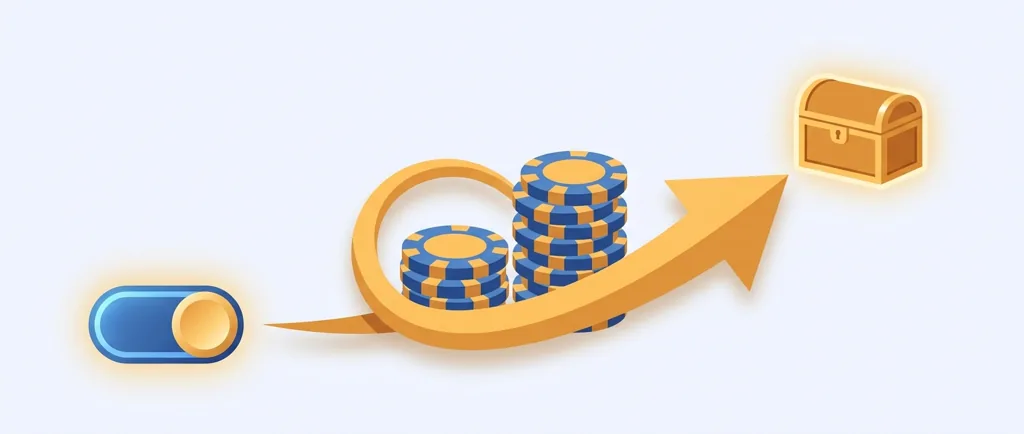
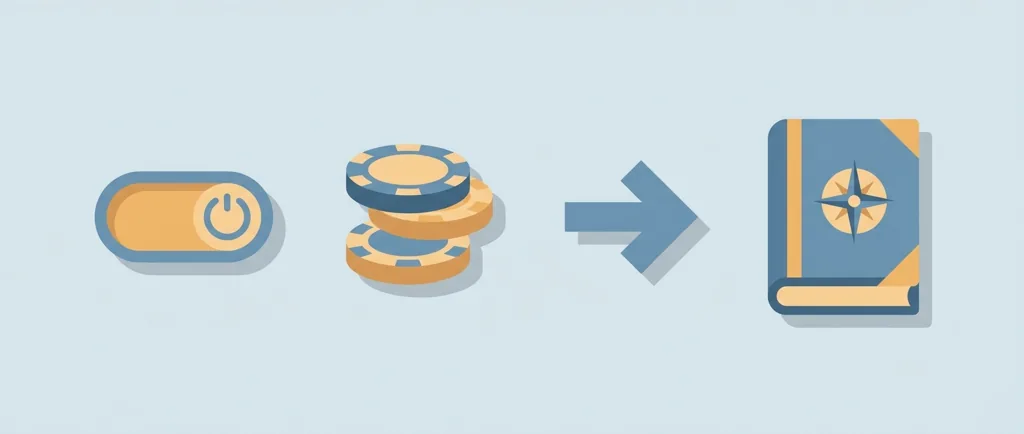
content(stakelogic): image fix pass 2 (regenerate neutral hero, apply review)
Claude-Session: https://claude.ai/code/session_015Q8nXzir9C1JJQpUQrfzFW

diff --git a/VsichkiKazina/articles/2026-09-21-stakelogic/05b-final-draft.md b/VsichkiKazina/articles/2026-09-21-stakelogic/05b-final-draft.md
@@ -5,7 +5,7 @@ Meta description: Stakelogic е нидерландско B2B студио (по-
 
 # Stakelogic: профил на доставчика, механики и топ слотове
 
-![Плоска илюстрация на бутон за включване, две камари казино чипове и извита стрелка нагоре, сочеща към сандък със съкровище, символ на бет-буста Super Stake на доставчика Stakelogic](images/stakelogic-hero.webp)
+![Плоска илюстрация в хоризонтален ред: бутон за включване, камара казино чипове, хоризонтална стрелка надясно и книга с компас, символ на опционалния бет-буст Super Stake на доставчика Stakelogic](images/stakelogic-hero.webp)
 
 Stakelogic прави онлайн ротативки и игри за живо казино, които стигат до теб само през лицензирани оператори. B2B доставчик е, не казино. Ако си пускал Book of Adventure или си засичал бутона „Super Stake" отстрани на барабаните, вече си играл на игра на студиото, без непременно да си го разпознал по име.
 
